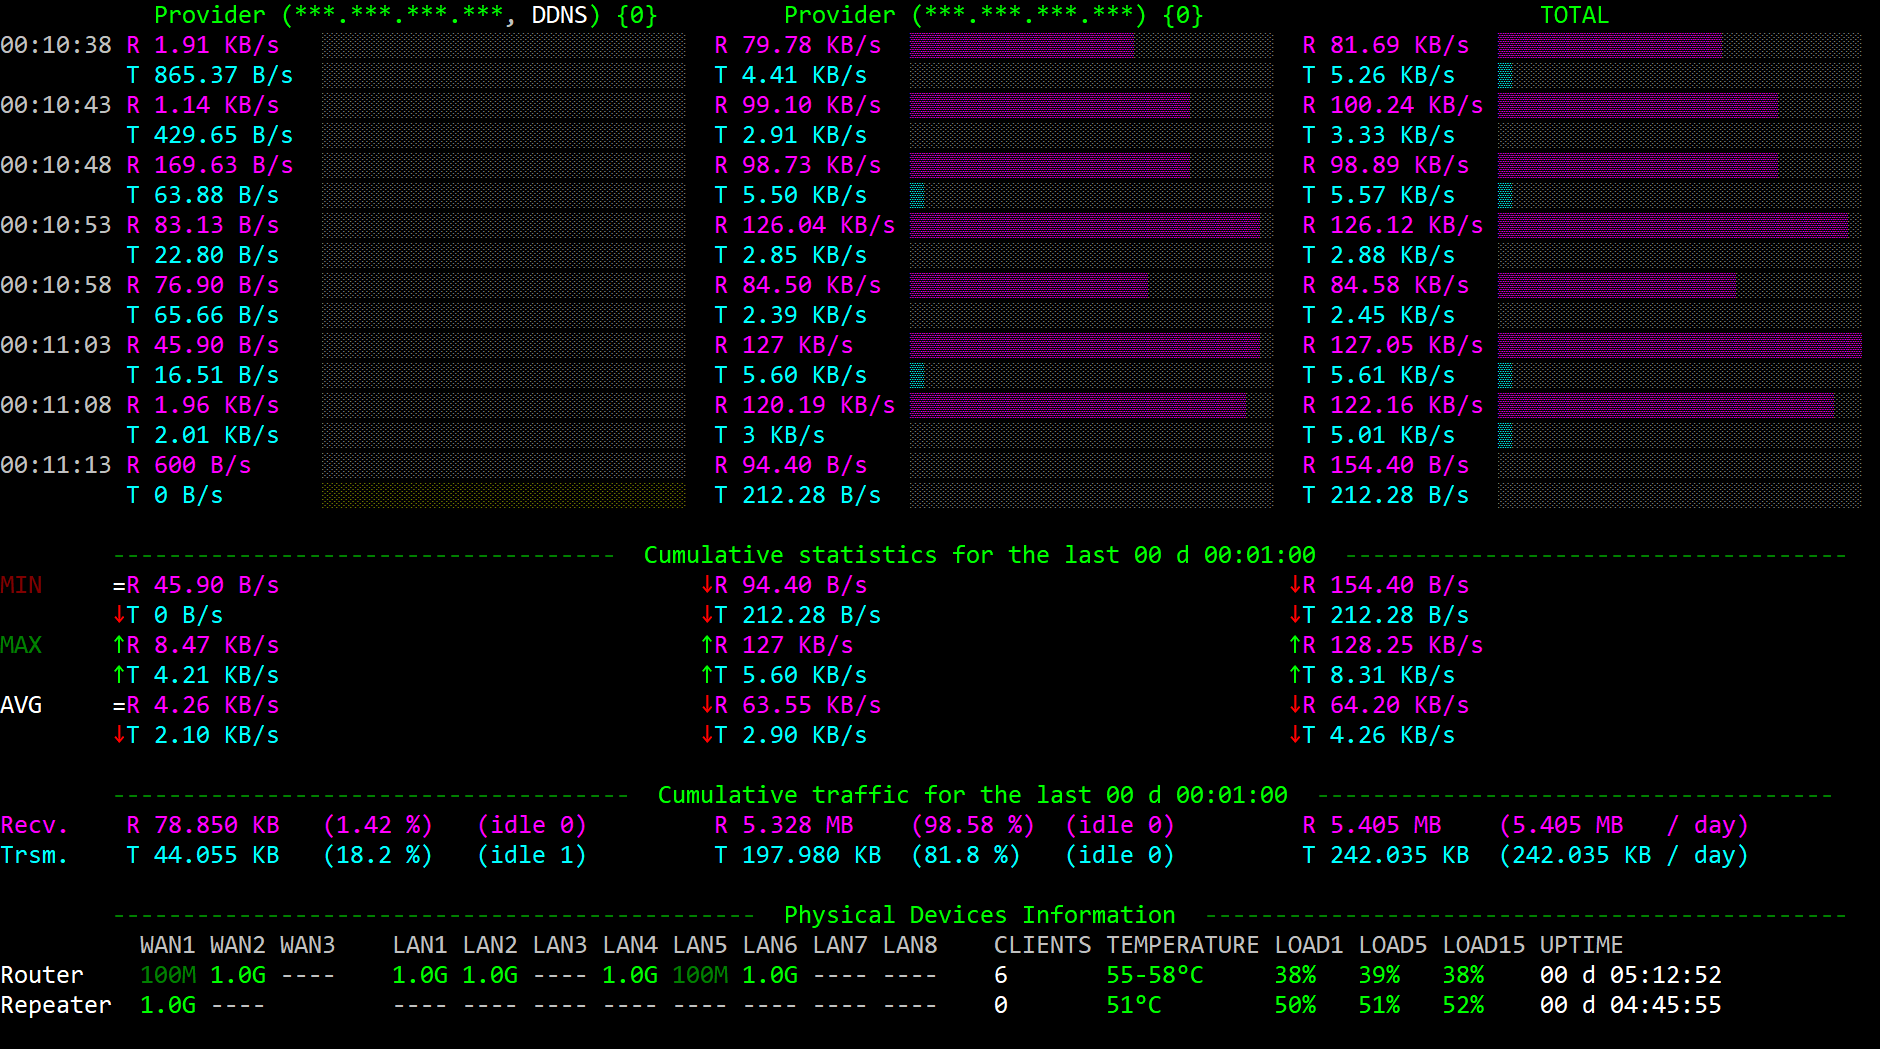
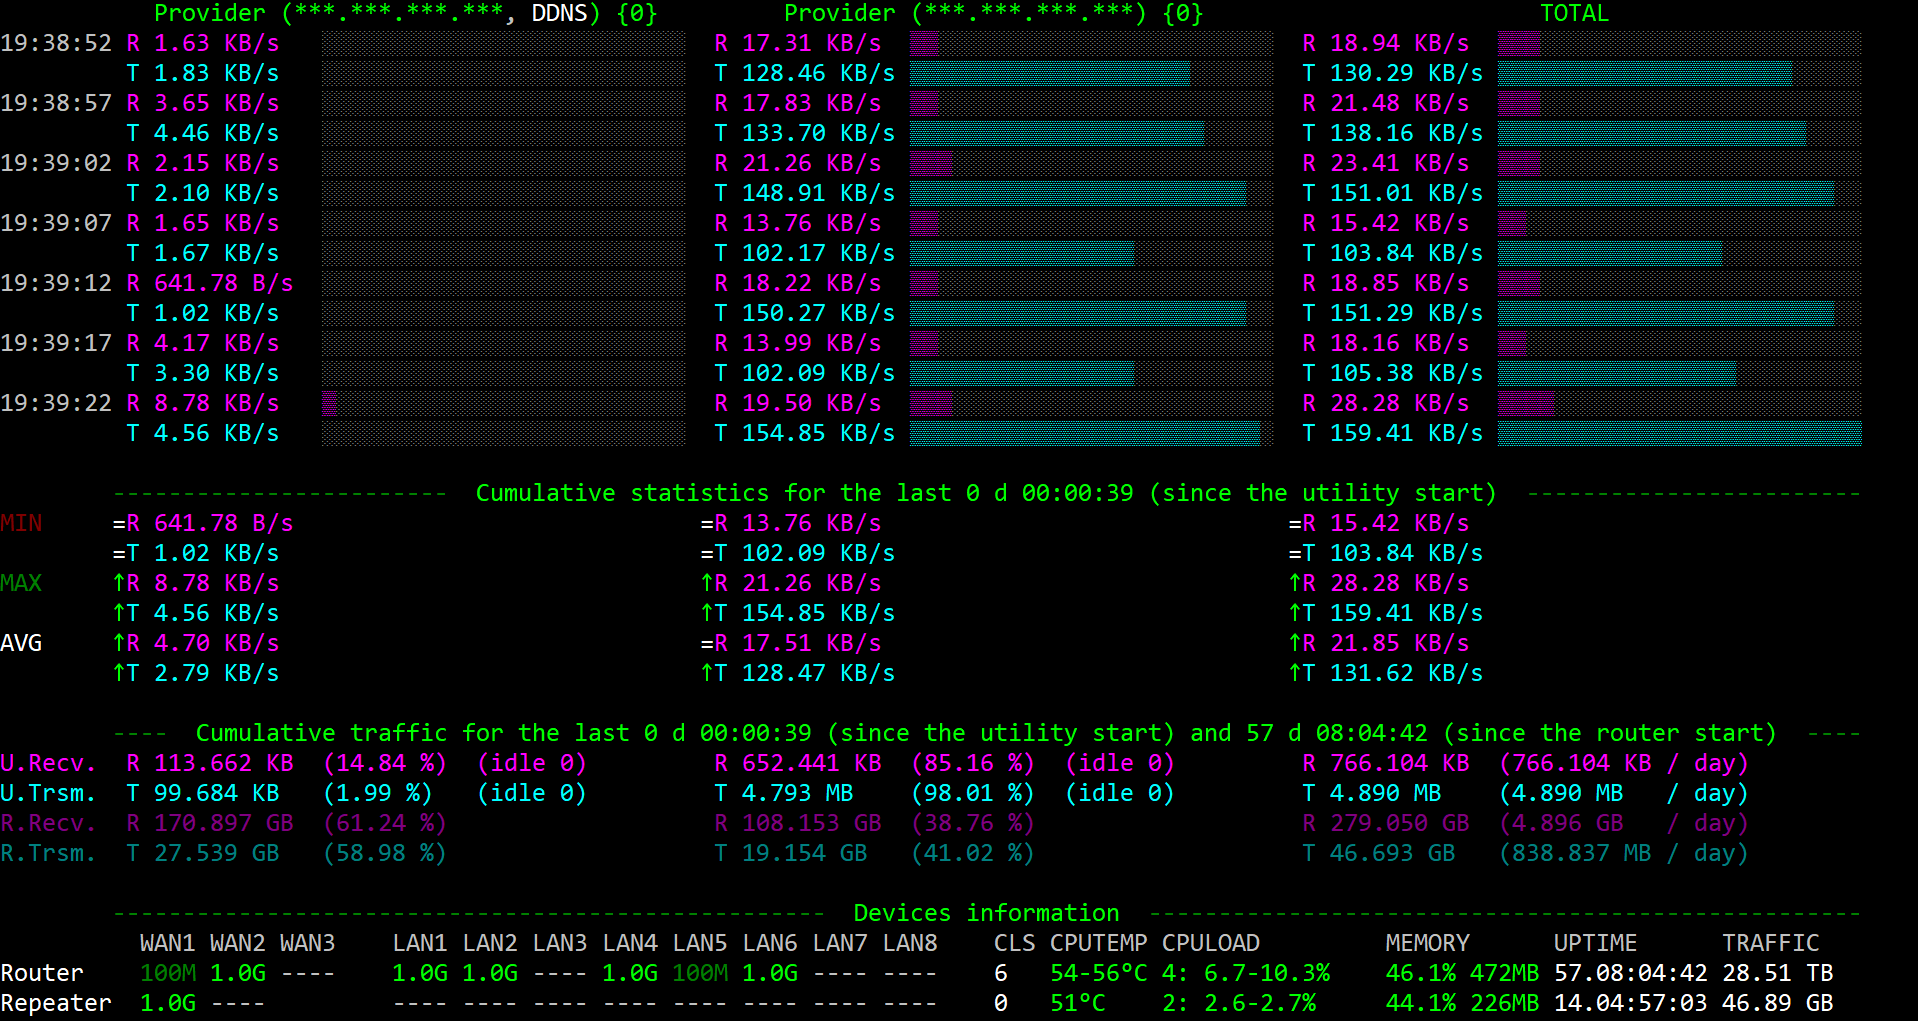
Minor cosmetic fixes.

diff --git a/class/Screen.php b/class/Screen.php
@@ -452,10 +452,10 @@ class Screen
         $devicesDataAsText .= '   ';
         $devicesDataAsText .= $this->getColoredText('CLS ', Color::LIGHT_GRAY);
         $devicesDataAsText .= $this->getColoredText('CPUTEMP ', Color::LIGHT_GRAY);
-        $devicesDataAsText .= $this->getColoredText('CPULOAD    ', Color::LIGHT_GRAY);
-        $devicesDataAsText .= $this->getColoredText('MEMORY     ', Color::LIGHT_GRAY);
+        $devicesDataAsText .= $this->getColoredText('CPULOAD         ', Color::LIGHT_GRAY);
+        $devicesDataAsText .= $this->getColoredText('MEMORY      ', Color::LIGHT_GRAY);
         $devicesDataAsText .= $this->getColoredText('UPTIME      ', Color::LIGHT_GRAY);
-        $devicesDataAsText .= $this->getColoredText('TRAFFIC         ', Color::LIGHT_GRAY);
+        $devicesDataAsText .= $this->getColoredText('TRAFFIC   ', Color::LIGHT_GRAY);
 
         $devicesDataAsText = str_pad($devicesDataAsText, $this->screenWidth + Screen::TIME_STAMP_LENGTH_WITH_SPACE + 1, '*', STR_PAD_RIGHT);
 
@@ -515,11 +515,11 @@ class Screen
             $devicesDataAsText .= $this->getColoredText($hardwareData['cpuCoresCount'] . ': ', Color::LIGHT_GREEN);
 
             if ($hardwareData['cpuLoadMaxPerc'] >= 80) {
-                $devicesDataAsText .= $this->getColoredText(str_pad($hardwareData['cpuLoadString'] . '%', 8), Color::LIGHT_RED);
+                $devicesDataAsText .= $this->getColoredText(str_pad($hardwareData['cpuLoadString'] . '%', 13), Color::LIGHT_RED);
             } elseif ($hardwareData['cpuLoadMinPerc'] >= 60) {
-                $devicesDataAsText .= $this->getColoredText(str_pad($hardwareData['cpuLoadString'] . '%', 8), Color::LIGHT_YELLOW);
+                $devicesDataAsText .= $this->getColoredText(str_pad($hardwareData['cpuLoadString'] . '%', 13), Color::LIGHT_YELLOW);
             } else {
-                $devicesDataAsText .= $this->getColoredText(str_pad($hardwareData['cpuLoadString'] . '%', 8), Color::LIGHT_GREEN);
+                $devicesDataAsText .= $this->getColoredText(str_pad($hardwareData['cpuLoadString'] . '%', 13), Color::LIGHT_GREEN);
             }
 
             $logData[$hardwareData['deviceName'] . '_CPU_MIN_PERC'] = $hardwareData['cpuLoadMinPerc'];
@@ -527,11 +527,11 @@ class Screen
 
             // Print memory data
             if ($hardwareData['memoryUsedPerc'] >= 80) {
-                $devicesDataAsText .= $this->getColoredText(str_pad($hardwareData['memoryUsageString'], 11), Color::LIGHT_RED);
+                $devicesDataAsText .= $this->getColoredText(str_pad($hardwareData['memoryUsageString'], 12), Color::LIGHT_RED);
             } elseif ($hardwareData['memoryUsedPerc'] >= 60) {
-                $devicesDataAsText .= $this->getColoredText(str_pad($hardwareData['memoryUsageString'], 11), Color::LIGHT_YELLOW);
+                $devicesDataAsText .= $this->getColoredText(str_pad($hardwareData['memoryUsageString'], 12), Color::LIGHT_YELLOW);
             } else {
-                $devicesDataAsText .= $this->getColoredText(str_pad($hardwareData['memoryUsageString'], 11), Color::LIGHT_GREEN);
+                $devicesDataAsText .= $this->getColoredText(str_pad($hardwareData['memoryUsageString'], 12), Color::LIGHT_GREEN);
             }
 
             $logData[$hardwareData['deviceName'] . '_MEMORY_PERC'] = $hardwareData['memoryUsedPerc'];
@@ -544,7 +544,7 @@ class Screen
             $logData[$hardwareData['deviceName'] . '_UPTIME_SECONDS'] = (int)$hardwareData['uptime'];
 
             // Print traffic
-            $devicesDataAsText .= $this->getColoredText(str_pad($this->formatBytes($hardwareData['totalTraffic'], 2), 16), Color::WHITE);
+            $devicesDataAsText .= $this->getColoredText(str_pad($this->formatBytes($hardwareData['totalTraffic'], 2), 11), Color::WHITE);
             $logData[$hardwareData['deviceName'] . '_TRAFFIC'] = $hardwareData['totalTraffic'];
 
             $devicesDataAsText .= "\n";

diff --git a/class/Worker.php b/class/Worker.php
@@ -17,13 +17,13 @@ class Worker
      * If $utility_start is true, providers' data is also initialized.
      *
      * @param Router|null $router         The router object to initialize (passed by reference).
-     * @param Config|null $config         Configuration object containing application settings (passed by reference).
-     * @param Screen|null $screen         The screen object for UI-related actions (passed by reference).
+     * @param Config $config         Configuration object containing application settings (passed by reference).
+     * @param Screen $screen         The screen object for UI-related actions (passed by reference).
      * @param bool $utility_start         Indicates whether to initialize providers' data.
      *
      * @return void
      */
-    public function globalInit(?Router &$router, ?Config &$config, ?Screen &$screen, bool &$utility_start): void
+    public function globalInit(?Router &$router, Config $config, Screen $screen, bool &$utility_start): void
     {
         // Create new connections to router and repeater
         $connectionToRouter = new Connection();
@@ -49,14 +49,13 @@ class Worker
      *
      * Executes periodic tasks such as refreshing data and updating the screen.
      *
-     * @param Router|null $router         The router object to update (passed by reference).
-     * @param Config|null $config         Configuration object containing application settings (passed by reference).
-     * @param Screen|null $screen         The screen object for UI-related actions (passed by reference).
-     * @param bool $utility_start         Indicates whether to initialize providers' data (unused in this method).
+     * @param Router $router         The router object to update (passed by reference).
+     * @param Config $config         Configuration object containing application settings (passed by reference).
+     * @param Screen $screen         The screen object for UI-related actions (passed by reference).
      *
      * @return void
      */
-    public function globalStep(?Router &$router, ?Config &$config, ?Screen &$screen, bool &$utility_start): void
+    public function globalStep(Router $router, Config $config, Screen $screen): void
     {
         // Refresh various data sources in the router
         $router->refreshAdaptersData();

diff --git a/class/Router.php b/class/Router.php
@@ -519,8 +519,8 @@ class Router
 
                 $hardwareData['cpuCoresCount'] = count($cpuLoads);
                 $hardwareData['cpuLoadsPerc'] = $cpuLoads;
-                $hardwareData['cpuLoadMinPerc'] = (int)round($minLoad);
-                $hardwareData['cpuLoadMaxPerc'] = (int)round($maxLoad);
+                $hardwareData['cpuLoadMinPerc'] = number_format(round($minLoad, 1), '1', '.', '');
+                $hardwareData['cpuLoadMaxPerc'] = number_format(round($maxLoad, 1), '1', '.', '');
                 if ($hardwareData['cpuCoresCount'] == 1) {
                     $hardwareData['cpuLoadString'] = $hardwareData['cpuLoadMinPerc'];
                 } else {
@@ -532,7 +532,7 @@ class Router
             $hardwareData['memoryUsageRAW'] = $hardwareData['hooksResults']['memory_usage(appobj)']['memory_usage'] ?? '[]';
             $hardwareData['memoryTotal'] = (int)(($hardwareData['memoryUsageRAW']['mem_total'] ?? 0) / 1024);
             $hardwareData['memoryUsed'] = (int)(($hardwareData['memoryUsageRAW']['mem_used'] ?? 0) / 1024);
-            $hardwareData['memoryUsedPerc'] = (int)round($hardwareData['memoryUsed'] * 100 / max($hardwareData['memoryTotal'], 1));
+            $hardwareData['memoryUsedPerc'] = number_format(round($hardwareData['memoryUsed'] * 100 / max($hardwareData['memoryTotal'], 1), 1), 1, '.', '');
             $hardwareData['memoryUsageString'] = $hardwareData['memoryUsedPerc'] . '% ' . $hardwareData['memoryUsed'] . 'MB';
 
             $hardwareDataArray[$hardwareName] = $hardwareData;

diff --git a/ASUS_Router_Monitoring.php b/ASUS_Router_Monitoring.php
@@ -83,7 +83,7 @@ if (!$keyboardEvents) {
         try {
             $worker->globalInit($router, $config, $screen, $utilityStart);
             while (true) {
-                $worker->globalStep($router, $config, $screen, $utilityStart);
+                $worker->globalStep($router, $config, $screen);
             }
         } catch (Exception $e) {
             $worker->refreshAfterException($screen, $config);
